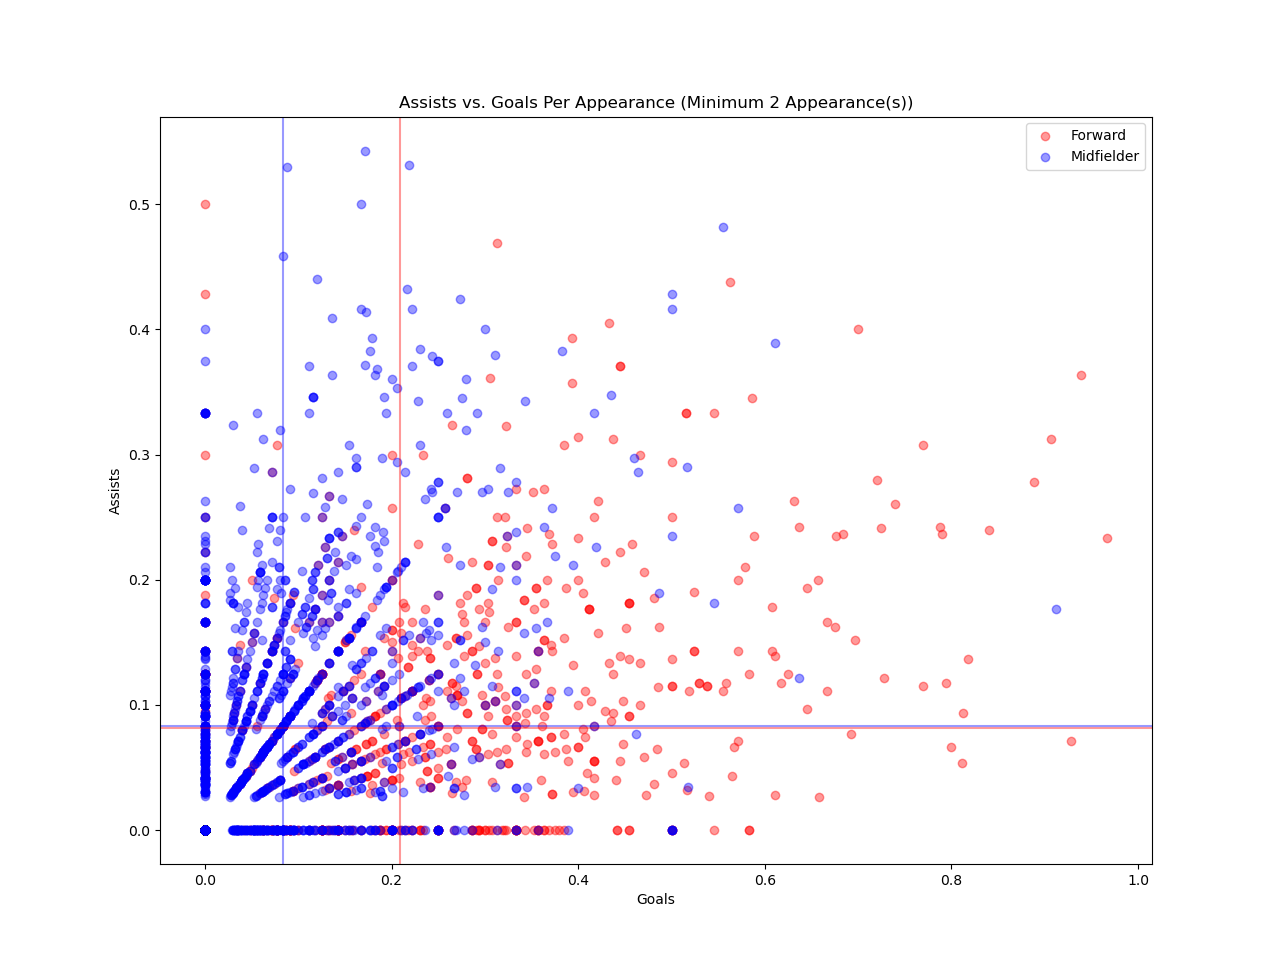
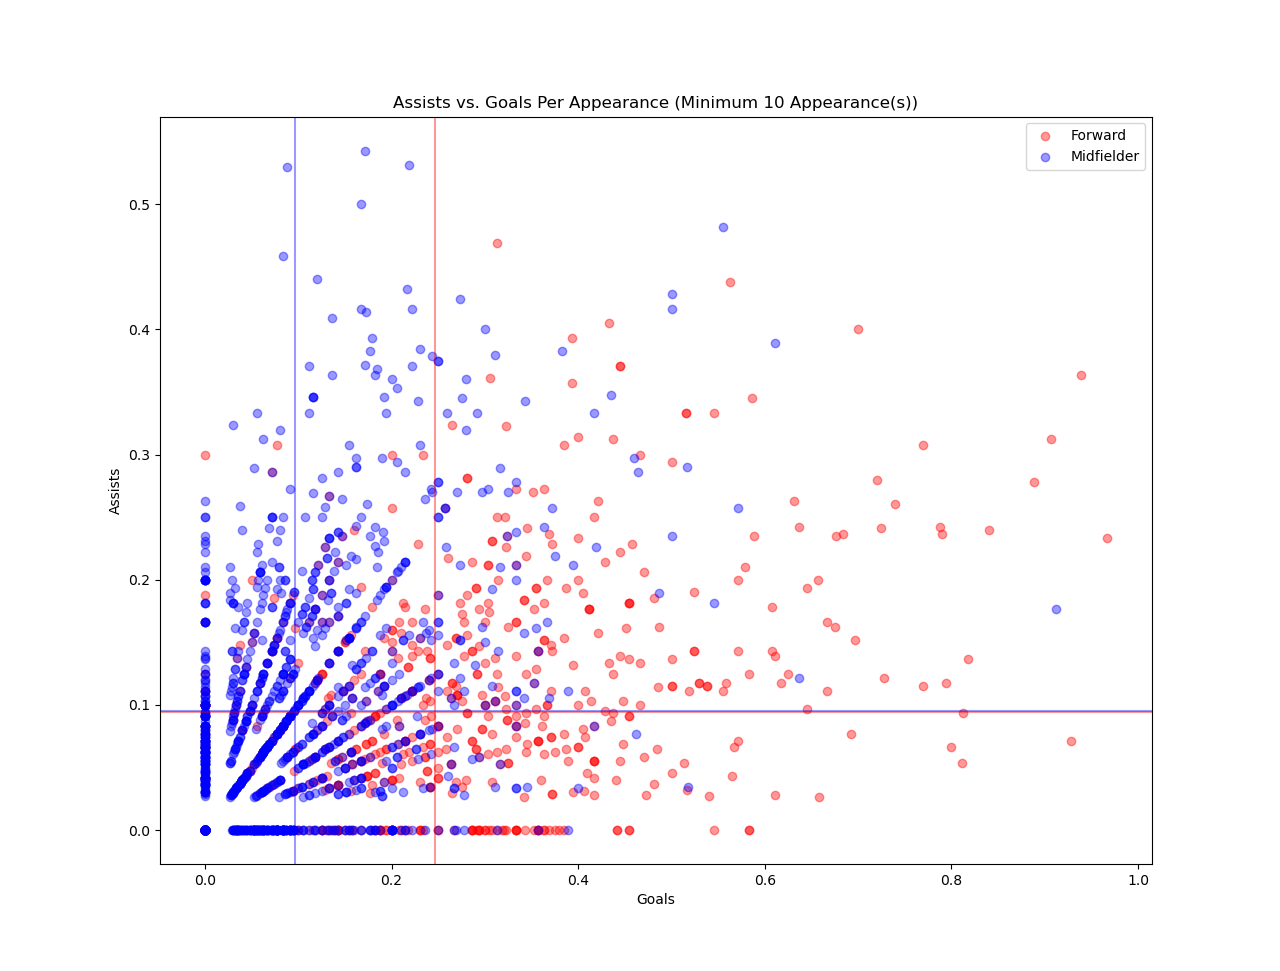
changing minimum to 10

diff --git a/main.py b/main.py
@@ -2,7 +2,7 @@ from WebScrapper import *
 
 if __name__ == "__main__":
     analyzer = DataAnalyzer(2006, 2018) #inclusive on both boundaries
-    analyzer.plot_multi_scatter(['Forward', 'Midfielder'], 'Goals', 'Assists', per=True, top=False, minimum=2, alpha=0.3)
+    analyzer.plot_multi_scatter(['Forward', 'Midfielder'], 'Goals', 'Assists', per=True, top=False, minimum=10, alpha=0.3)
     # analyzer.plot_multi_scatter(['Forward', 'Midfielder'], 'Passes per Game', 'Assists')
 
     # analyzer.print_df()
